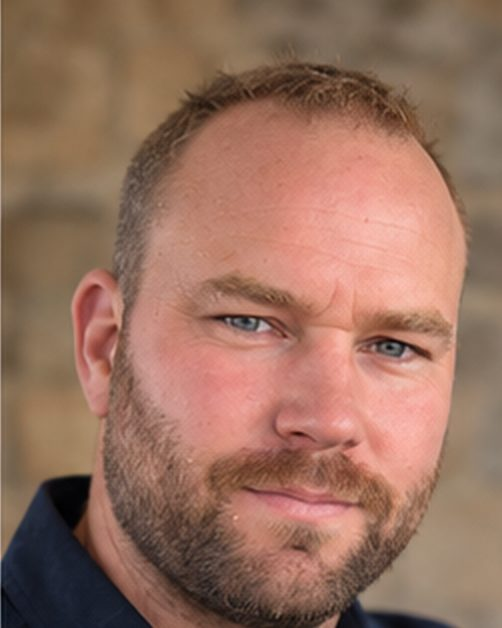
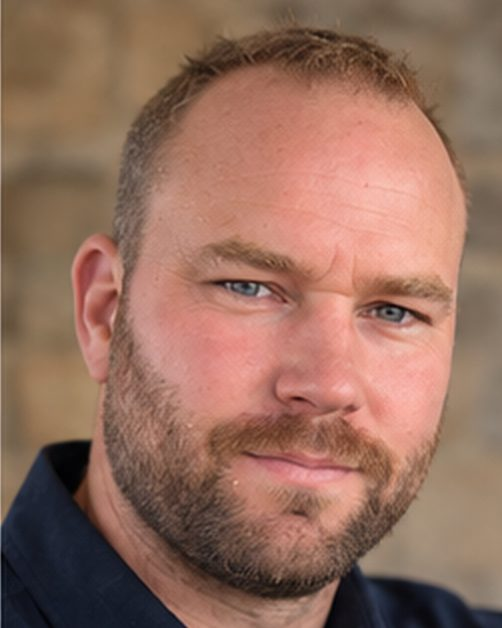
Recadrage portrait : menton entier visible (l'ancien coupait juste sous le menton)
Egalement : deploy-ovh.py garde le fix confirm=False, ajout de
retry-failed.py pour rejouer une liste de fichiers en echec avec plus
de patience (utile quand OVH devient instable pendant une rafale de
connexions).

diff --git a/scripts/deploy-ovh.py b/scripts/deploy-ovh.py
@@ -14,7 +14,7 @@ Remplace tout lien symbolique deja present cote serveur (ex: www/index.html
 qui pointe par defaut vers la page de bienvenue OVH) plutot que d'ecrire au
 travers.
 """
-import os, sys, stat, paramiko
+import os, sys, stat, time, paramiko
 
 HERE = os.path.dirname(os.path.abspath(__file__))
 LOCAL_ROOT = os.path.dirname(HERE)
@@ -59,23 +59,51 @@ def main():
     password = env["OVH_PASS"]
     remote_root = env.get("OVH_REMOTE_ROOT", "www")
 
-    t = paramiko.Transport((host, port))
-    t.connect(username=user, password=password)
-    sftp = paramiko.SFTPClient.from_transport(t)
+    def connect():
+        tr = paramiko.Transport((host, port))
+        tr.connect(username=user, password=password)
+        return tr, paramiko.SFTPClient.from_transport(tr)
 
-    n_up = n_skip = n_err = 0
-    bytes_up = 0
+    t, sftp = connect()
+
+    # liste (local_path, remote_dir, fn) a plat : la connexion OVH decroche
+    # apres un certain volume, on reconnecte donc periodiquement plutot que
+    # de garder une seule session ouverte pendant tout le transfert.
+    todo = []
+    n_skip = 0
     for dirpath, dirnames, filenames in os.walk(LOCAL_ROOT):
         dirnames[:] = [d for d in dirnames if d not in EXCLUDE_DIRS]
         rel_dir = os.path.relpath(dirpath, LOCAL_ROOT)
         remote_dir = remote_root if rel_dir == "." else remote_root + "/" + rel_dir.replace(os.sep, "/")
-        remote_mkdir_p(sftp, remote_dir)
         for fn in filenames:
             if fn in EXCLUDE_FILES or fn.startswith(EXCLUDE_FILES_PREFIX):
                 n_skip += 1
                 continue
-            local_path = os.path.join(dirpath, fn)
-            remote_path = remote_dir + "/" + fn
+            todo.append((os.path.join(dirpath, fn), remote_dir, fn))
+
+    n_up = n_err = 0
+    bytes_up = 0
+    made_dirs = set()
+    failed = []
+    RECONNECT_EVERY = 60
+
+    for i, (local_path, remote_dir, fn) in enumerate(todo):
+        if i and i % RECONNECT_EVERY == 0:
+            try:
+                sftp.close(); t.close()
+            except Exception:
+                pass
+            time.sleep(1)
+            t, sftp = connect()
+            made_dirs.clear()
+
+        if remote_dir not in made_dirs:
+            remote_mkdir_p(sftp, remote_dir)
+            made_dirs.add(remote_dir)
+
+        remote_path = remote_dir + "/" + fn
+        ok = False
+        for attempt in range(3):
             try:
                 try:
                     lst = sftp.lstat(remote_path)
@@ -83,16 +111,46 @@ def main():
                         sftp.remove(remote_path)
                 except FileNotFoundError:
                     pass
-                sftp.put(local_path, remote_path)
-                n_up += 1
-                bytes_up += os.path.getsize(local_path)
-                if n_up % 40 == 0:
-                    print(f"... {n_up} fichiers envoyes ({bytes_up / 1e6:.1f} Mo)")
+                # confirm=False : le serveur OVH renvoie parfois un stat perime
+                # (taille 0) juste apres l'ecriture, ce que confirm=True (par
+                # defaut) prend a tort pour un echec. On verifie nous-memes,
+                # avec une petite tolerance de latence.
+                sftp.put(local_path, remote_path, confirm=False)
+                time.sleep(0.05)
+                remote_size = sftp.stat(remote_path).st_size
+                local_size = os.path.getsize(local_path)
+                if remote_size != local_size:
+                    time.sleep(0.5)
+                    remote_size = sftp.stat(remote_path).st_size
+                if remote_size != local_size:
+                    raise IOError(f"taille distante {remote_size} != locale {local_size}")
+                ok = True
+                break
             except Exception as e:
-                n_err += 1
-                print("ERREUR", local_path, "->", remote_path, ":", e)
+                last_err = e
+                try:
+                    sftp.close(); t.close()
+                except Exception:
+                    pass
+                time.sleep(1.5)
+                t, sftp = connect()
+                made_dirs = {remote_dir}
+                remote_mkdir_p(sftp, remote_dir)
+        if ok:
+            n_up += 1
+            bytes_up += os.path.getsize(local_path)
+            if n_up % 40 == 0:
+                print(f"... {n_up} fichiers envoyes ({bytes_up / 1e6:.1f} Mo)")
+        else:
+            n_err += 1
+            failed.append((local_path, remote_path))
+            print("ERREUR", local_path, "->", remote_path, ":", last_err)
 
     print(f"\nTermine : {n_up} fichiers envoyes ({bytes_up / 1e6:.1f} Mo), {n_skip} ignores, {n_err} erreurs.")
+    if failed:
+        print("Fichiers en echec :")
+        for lp, rp in failed:
+            print(" ", rp)
     sftp.close()
     t.close()
     return 1 if n_err else 0

diff --git a/scripts/retry-failed.py b/scripts/retry-failed.py
@@ -1,0 +1,121 @@
+#!/usr/bin/env python3
+"""Reessaie l'upload d'une liste de fichiers en echec (un chemin distant
+relatif a la racine du site par ligne, ex: www/assets/img/foo.jpg), avec
+plus de patience que le script principal (utile quand OVH est instable
+pendant une rafale de connexions/deconnexions)."""
+import os, sys, stat, time, paramiko
+
+HERE = os.path.dirname(os.path.abspath(__file__))
+LOCAL_ROOT = os.path.dirname(HERE)
+ENV_FILE = os.path.join(LOCAL_ROOT, ".deploy", "ftp-credentials.env")
+
+
+def load_env(path):
+    env = {}
+    with open(path) as f:
+        for line in f:
+            line = line.strip()
+            if not line or line.startswith("#") or "=" not in line:
+                continue
+            k, v = line.split("=", 1)
+            env[k.strip()] = v.strip()
+    return env
+
+
+def remote_mkdir_p(sftp, path):
+    parts = path.split("/")
+    cur = ""
+    for p in parts:
+        cur = p if not cur else cur + "/" + p
+        try:
+            sftp.stat(cur)
+        except FileNotFoundError:
+            sftp.mkdir(cur)
+
+
+def main():
+    list_file = sys.argv[1] if len(sys.argv) > 1 else None
+    if not list_file or not os.path.exists(list_file):
+        print("Usage: retry-failed.py <fichier-liste-chemins-distants>")
+        return 1
+    with open(list_file) as f:
+        remote_paths = [l.strip() for l in f if l.strip()]
+
+    env = load_env(ENV_FILE)
+    host = env["OVH_HOST"]
+    port = int(env.get("OVH_PORT", "22"))
+    user = env["OVH_USER"]
+    password = env["OVH_PASS"]
+    remote_root = env.get("OVH_REMOTE_ROOT", "www")
+
+    def connect():
+        tr = paramiko.Transport((host, port))
+        tr.connect(username=user, password=password)
+        return tr, paramiko.SFTPClient.from_transport(tr)
+
+    t, sftp = connect()
+
+    n_up = n_err = 0
+    failed = []
+    delays = [2, 5, 10, 20, 30]
+
+    for remote_path in remote_paths:
+        rel = remote_path[len(remote_root) + 1:] if remote_path.startswith(remote_root + "/") else remote_path
+        local_path = os.path.join(LOCAL_ROOT, rel.replace("/", os.sep))
+        if not os.path.exists(local_path):
+            print("MANQUANT EN LOCAL:", local_path)
+            failed.append(remote_path)
+            continue
+
+        remote_dir = os.path.dirname(remote_path)
+        ok = False
+        last_err = None
+        for attempt, delay in enumerate(delays):
+            try:
+                remote_mkdir_p(sftp, remote_dir)
+                try:
+                    lst = sftp.lstat(remote_path)
+                    if stat.S_ISLNK(lst.st_mode):
+                        sftp.remove(remote_path)
+                except FileNotFoundError:
+                    pass
+                sftp.put(local_path, remote_path, confirm=False)
+                time.sleep(1.0)
+                remote_size = sftp.stat(remote_path).st_size
+                local_size = os.path.getsize(local_path)
+                if remote_size != local_size:
+                    time.sleep(2.0)
+                    remote_size = sftp.stat(remote_path).st_size
+                if remote_size != local_size:
+                    raise IOError(f"taille distante {remote_size} != locale {local_size}")
+                ok = True
+                break
+            except Exception as e:
+                last_err = e
+                print(f"  echec tentative {attempt+1} pour {remote_path} : {e}")
+                try:
+                    sftp.close(); t.close()
+                except Exception:
+                    pass
+                time.sleep(delay)
+                t, sftp = connect()
+        if ok:
+            n_up += 1
+            print("OK", remote_path)
+        else:
+            n_err += 1
+            failed.append(remote_path)
+            print("ERREUR DEFINITIVE", remote_path, ":", last_err)
+
+    print(f"\nTermine : {n_up} envoyes, {n_err} en echec.")
+    if failed:
+        print("Toujours en echec :")
+        for p in failed:
+            print(" ", p)
+    sftp.close()
+    t.close()
+    return 1 if n_err else 0
+
+
+if __name__ == "__main__":
+    sys.exit(main())
